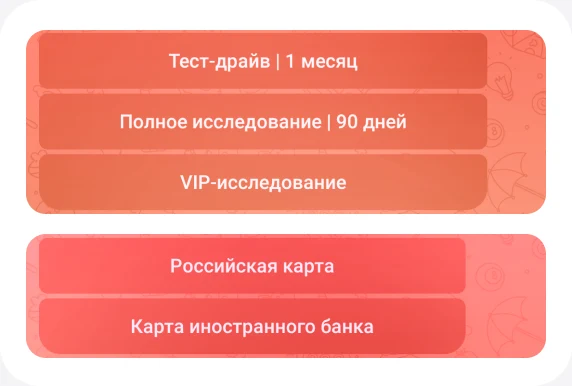
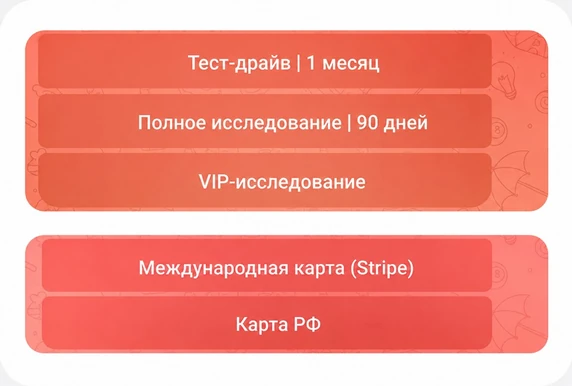
tg screens fixes

diff --git a/src/lib/landing-assets.ts b/src/lib/landing-assets.ts
@@ -188,7 +188,7 @@ export const landingAssets = {
   paymentSteps: [
     asset("payment-step-01.webp", "bot1"),
     asset("payment-step-02.webp", "bot1"),
-    asset("payment-step-03.webp", "bot1"),
+    asset("payment-step-03.webp", "bot4"),
     asset("payment-step-04.webp", "bot1"),
   ],
   lessonThumbs: [
